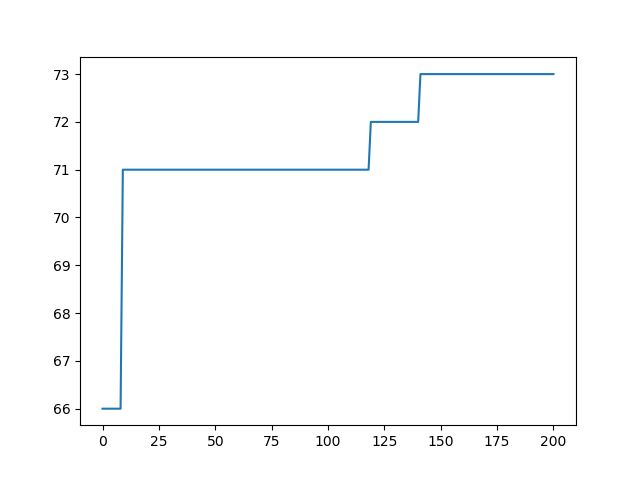
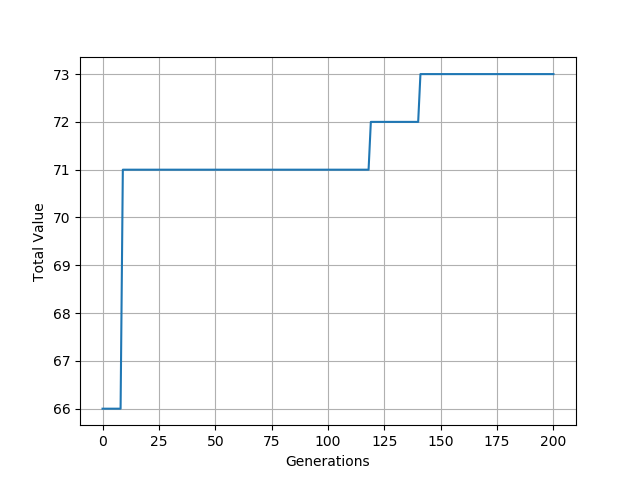
fixed image

diff --git a/ga_components/Population.py b/ga_components/Population.py
@@ -124,4 +124,7 @@ class Population:
             else:
                 self.log.logger.info("\nBest chromosome: {}".format(self.elite.all_genes_vals()))
             plt.plot(self.fitness_across_generations)
+            plt.xlabel("Generations")
+            plt.ylabel("Total Value")
+            plt.grid()
             plt.show(block=True)
